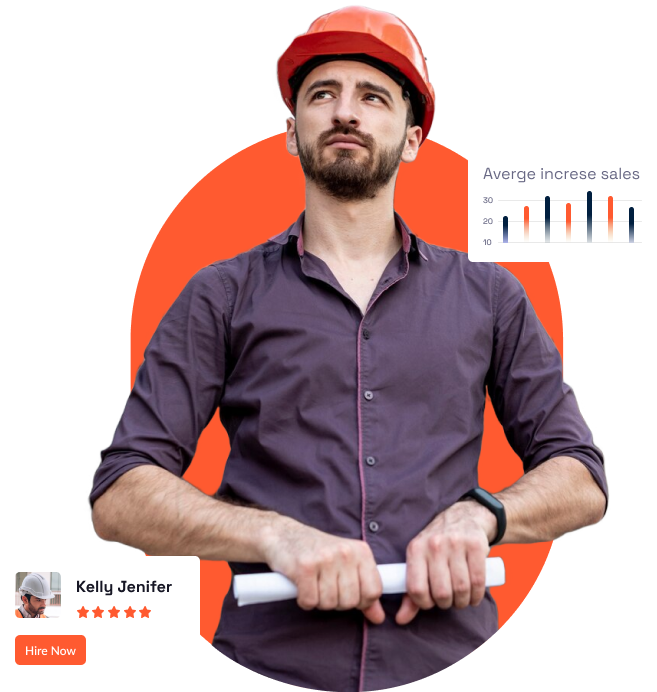
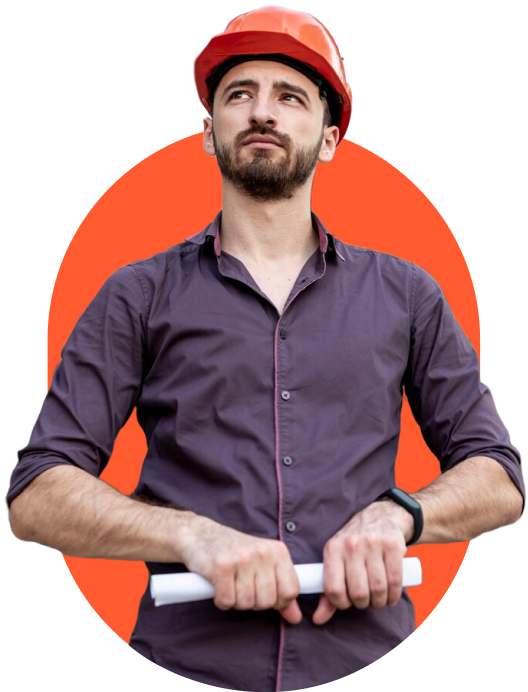
changes

diff --git a/scss/main.scss b/scss/main.scss
@@ -42,8 +42,10 @@ body {
         display: flex;
         align-items: center;
         position: relative;
+
         .banner-content {
             position: relative;
+
             .banner-title {
                 position: absolute;
                 width: 694px;
@@ -105,26 +107,69 @@ body {
             }
         }
 
-        .banner-profile {
-
+        .banner-profile-main {
             position: absolute;
             width: 657px;
             height: 692px;
-            left: 673px;
+            left: 690px;
             top: 70px;
 
-            .banner-profile-img {
-                width: 100%;
-                height: 100%;
-                object-fit: cover;
-            }
+            .banner-profile {
 
+                // position: absolute;
+                // width: 657px;
+                // height: 692px;
+                // left: 673px;
+                // top: 70px;
+                width: 528px;
+                height: 692px;
+                margin: auto;
+
+                .banner-profile-img {
+                    width: 100%;
+                    height: 100%;
+                    object-fit: cover;
+                }
+
+                .banner-chart {
+                    position: absolute;
+                    top: 140px;
+                    right: 24px;
+                    width: 189px;
+                    height: 117px;
+                    border-radius: 5px;
+
+                    .banner-chart-img {
+                        width: 100%;
+                        height: 100%;
+                        border-radius: 5px;
+                        object-fit: cover;
+                    }
+                }
+
+                .banner-hire {
+                    position: absolute;
+                    left: -17px;
+                    bottom: 10px;
+                    width: 200px;
+                    height: 124px;
+                    border-radius: 5px;
+
+                    .banner-hire-img {
+                        width: 100%;
+                        height: 100%;
+                        border-radius: 5px;
+                        object-fit: cover;
+                    }
+                }
+            }
         }
     }
 }
 
 .banner-card {
     margin-top: -100px;
+
     .banner-card-main {
         display: flex;
         gap: 30px;

diff --git a/css/style.css b/css/style.css
@@ -93,16 +93,49 @@ body {
 .banner .banner-main .banner-content .bTn:hover .btn-icon {
   filter: brightness(0) invert(1);
 }
-.banner .banner-main .banner-profile {
+.banner .banner-main .banner-profile-main {
   position: absolute;
   width: 657px;
   height: 692px;
-  left: 673px;
+  left: 690px;
   top: 70px;
 }
-.banner .banner-main .banner-profile .banner-profile-img {
+.banner .banner-main .banner-profile-main .banner-profile {
+  width: 528px;
+  height: 692px;
+  margin: auto;
+}
+.banner .banner-main .banner-profile-main .banner-profile .banner-profile-img {
   width: 100%;
   height: 100%;
+  object-fit: cover;
+}
+.banner .banner-main .banner-profile-main .banner-profile .banner-chart {
+  position: absolute;
+  top: 140px;
+  right: 24px;
+  width: 189px;
+  height: 117px;
+  border-radius: 5px;
+}
+.banner .banner-main .banner-profile-main .banner-profile .banner-chart .banner-chart-img {
+  width: 100%;
+  height: 100%;
+  border-radius: 5px;
+  object-fit: cover;
+}
+.banner .banner-main .banner-profile-main .banner-profile .banner-hire {
+  position: absolute;
+  left: -17px;
+  bottom: 10px;
+  width: 200px;
+  height: 124px;
+  border-radius: 5px;
+}
+.banner .banner-main .banner-profile-main .banner-profile .banner-hire .banner-hire-img {
+  width: 100%;
+  height: 100%;
+  border-radius: 5px;
   object-fit: cover;
 }
 

diff --git a/index.html b/index.html
@@ -24,8 +24,16 @@
                         <a class="bTn" href="#">Discover Now <img class="ms-3 btn-icon" src="images/arrow.svg"
                                 alt="arrow"></a>
                     </div>
-                    <div class="banner-profile">
-                        <img class="banner-profile-img" src="images/banner-profile.png" alt="">
+                    <div class="banner-profile-main">
+                        <div class="banner-profile">
+                            <img class="banner-profile-img" src="images/banner-profile.png" alt="banner-profile">
+                            <div class="banner-chart">
+                                <img class="banner-chart-img" src="images/chart.png" alt="chart">
+                            </div>
+                            <div class="banner-hire">
+                                <img class="banner-hire-img" src="images/hire.png" alt="banner-hire-img">
+                            </div>
+                        </div>
                     </div>
                 </div>
             </div>
